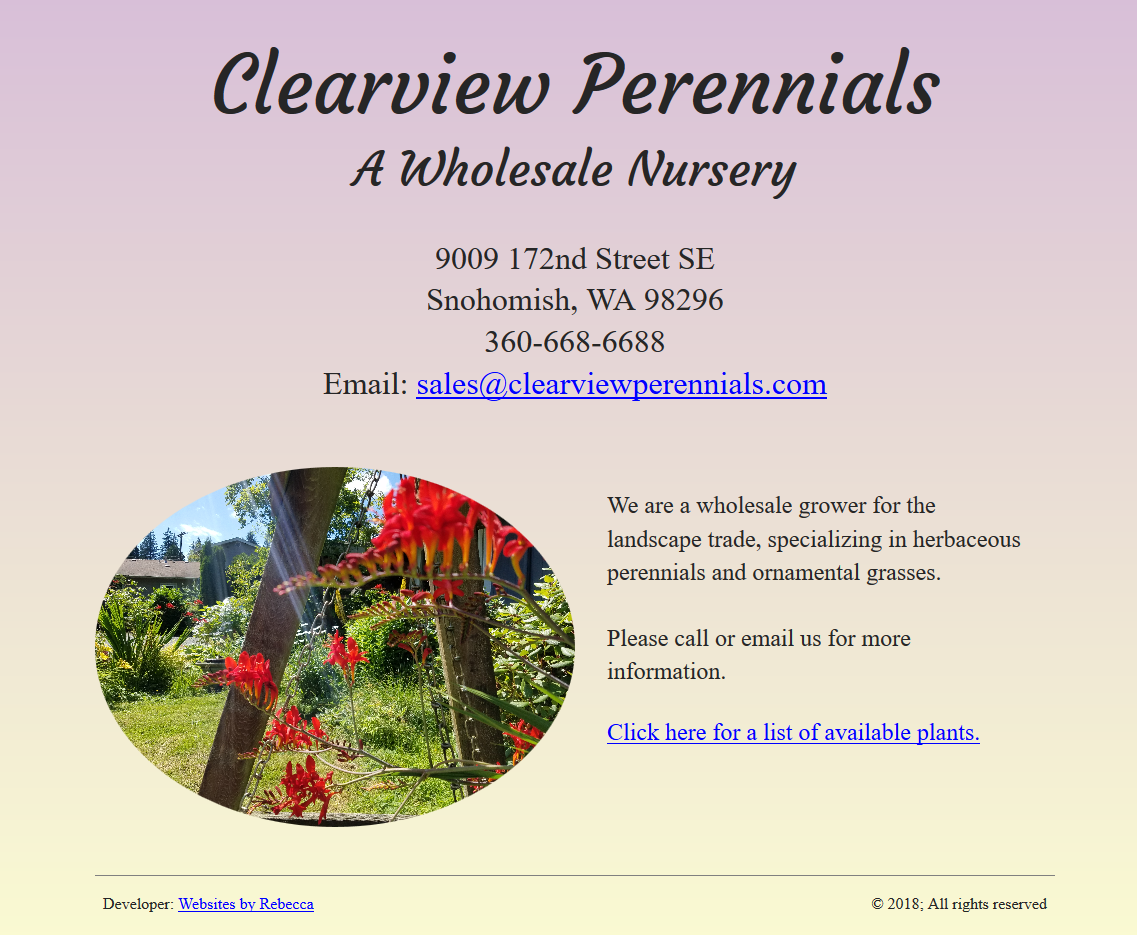
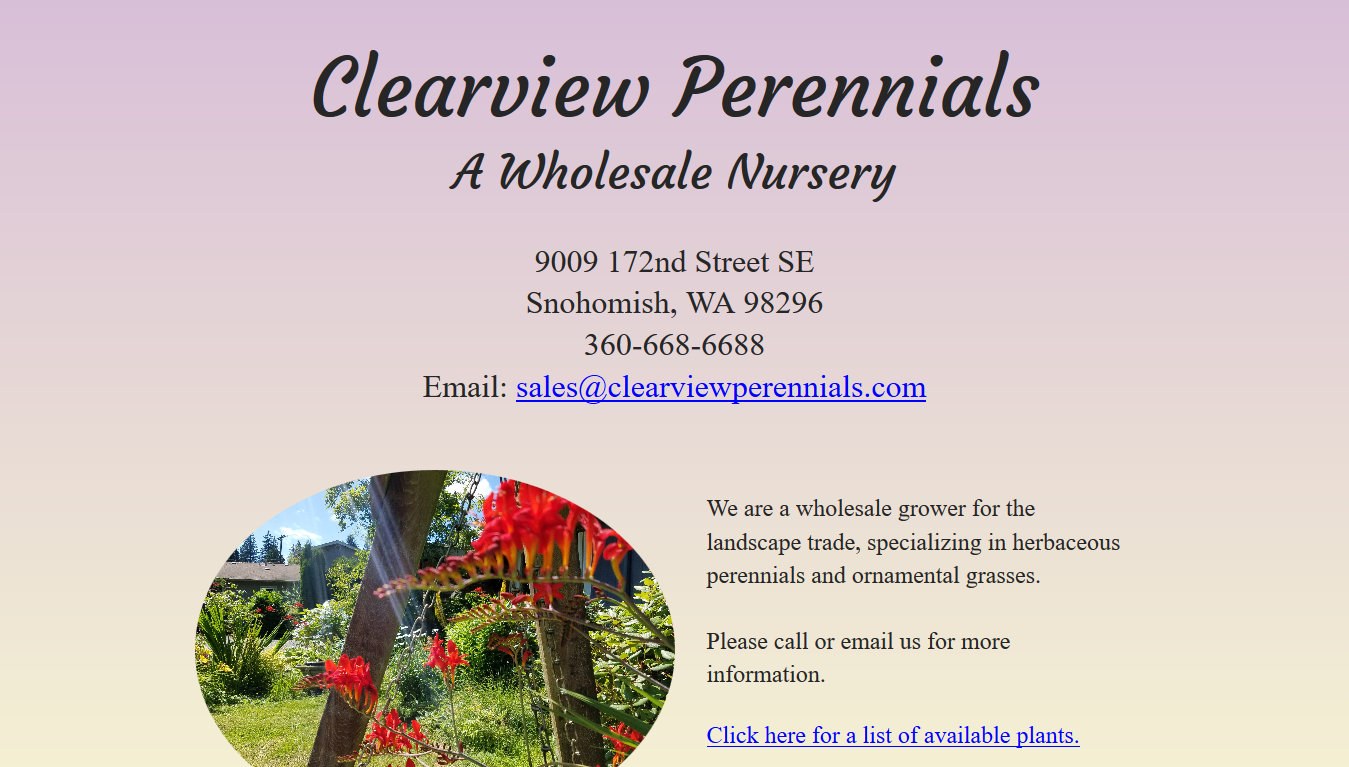
Screenshots formatted.  Fonts and titles next.

Changed region(s): [[0.0616, 0.03, 0.8927, 1.0], [0.5233, 0.9296, 0.9235, 0.9896]]

diff --git a/style.css b/style.css
@@ -5,6 +5,8 @@ html {
   font-family: serif;
   text-decoration: none;
   min-height: 100%;
+  color: white;
+  background-color: black;
 }
 
 *, *:before, *:after {
@@ -37,14 +39,21 @@ body {
     ". . site-title3 site-screen3"
     ". . site-title4 site-screen4"
     "footer footer footer footer";
+  grid-row-gap: 1rem;
   align-items: center;
   min-width: 0;
   min-height: 0;
 }
 
-.title {
+.page-title {
+  font-size: 3rem;
   grid-area: header;
   margin: auto;
+}
+
+.title {
+  text-align: right;
+  padding-right: 10px;
 }
 
 .title,
@@ -55,6 +64,12 @@ body {
   height: auto;
   overflow: hidden;
   }
+
+img {
+  display: block;
+  width: 100%;
+  height: auto;
+}
 
 /*React project 1*/
 .react-1.title {

diff --git a/index.html b/index.html
@@ -9,7 +9,7 @@
   </head>
   <body>
     <div class="container">
-      <h1 class="title">Websites by Rebecca - Portfolio</h1>
+      <h1 class="page-title">Websites by Rebecca - Portfolio</h1>
       <!-- React project 1 -->
       <h2 class="react-1 title">Jammming</h2>
       <div class="react-1 screenshot">
@@ -28,7 +28,7 @@
       <!-- Website 2 -->
       <h2 class="website-2 title">Saucha</h2>
       <div class="website-2 screenshot">
-        <img src="screenshots/saucha.png" alt="">
+        <img src="screenshots/saucha.jpg" alt="">
       </div>
       <!-- Website 3 -->
       <h2 class="website-3 title">Clearview</h2>
